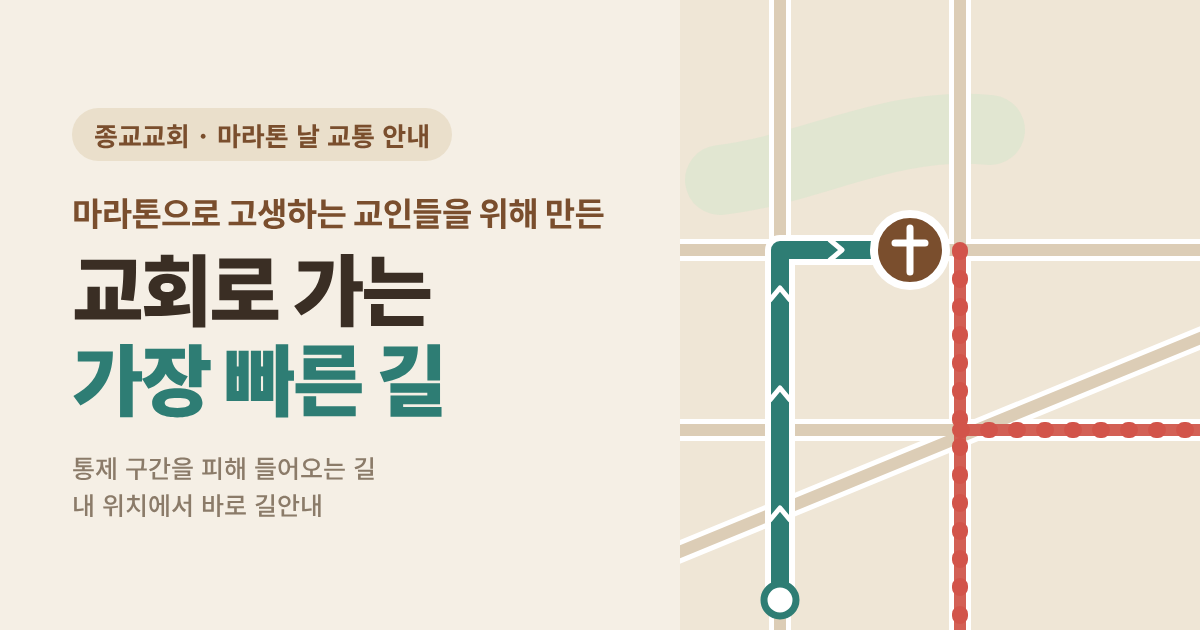
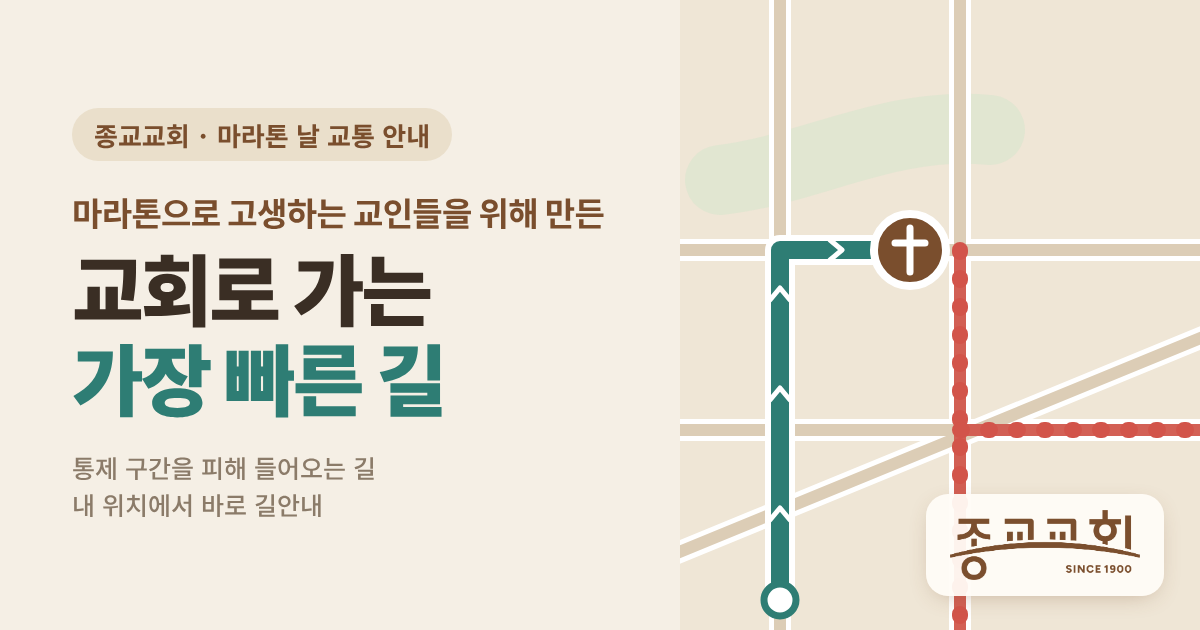
대회별 통제 구간 목록·지도 보기, 교회 로고(앱 헤더·썸네일) 추가
Claude-Session: https://claude.ai/code/session_01NMEUwdsk4j8TxaGpeGHSFo

Changed region(s): [[0.7708, 0.7841, 0.9867, 0.9651]]

diff --git a/index.html b/index.html
@@ -110,6 +110,14 @@ footer a{color:var(--brown)}
 .timeauto b{color:var(--ink)}
 .deptime{margin-top:8px;font-size:14px;color:var(--muted)}
 .deptime summary{cursor:pointer;padding:4px 2px}
+.seglist{margin-top:12px;background:rgba(255,255,255,.6);border-radius:12px;padding:10px 12px}
+.seg-h{font-size:12.5px;font-weight:800;color:var(--brown);margin-bottom:4px}
+.seg-i{display:flex;justify-content:space-between;gap:10px;font-size:13.5px;padding:4px 0;border-top:1px dashed rgba(122,78,45,.18)}
+.seg-i:first-of-type{border-top:0}
+.seg-i b{white-space:nowrap;font-variant-numeric:tabular-nums;color:#9b2f27;font-weight:700}
+.hdr{display:flex;align-items:center;justify-content:space-between;gap:12px;margin-bottom:8px}
+.hdr .logo{width:104px;height:auto;flex:none}
+@media (max-width:360px){.hdr .logo{width:78px}}
 /* admin */
 .adm h3{font-size:15px;margin:18px 0 8px}
 .seg-row{border:1.5px solid var(--line);border-radius:14px;padding:10px;margin-top:8px;background:#fff}
@@ -124,8 +132,11 @@ footer a{color:var(--brown)}
 <body>
 <div class="wrap">
   <header>
-    <span class="eyebrow">종교교회 · 주일 교통 안내</span>
-    <h1><span style="font-size:17px;font-weight:700;color:var(--brown);display:block;margin-bottom:4px">마라톤으로 고생하는 교인들을 위해 만든</span>교회로 가는 가장 빠른 길</h1>
+    <div class="hdr">
+      <span class="eyebrow">마라톤 날 주일 교통 안내</span>
+      <img class="logo" src="logo.png" alt="종교교회 SINCE 1900">
+    </div>
+        <h1><span style="font-size:17px;font-weight:700;color:var(--brown);display:block;margin-bottom:4px">마라톤으로 고생하는 교인들을 위해 만든</span>교회로 가는 가장 빠른 길</h1>
     <div class="sub">출발 위치만 고르면, 지금 시각에 맞춰 통제 구간을 피해 들어오는 길을 알려 드려요.</div>
   </header>
 
@@ -198,7 +209,7 @@ footer a{color:var(--brown)}
 
   <footer>
     예상 시간은 거리로 어림한 값이에요. 실제 길안내는 카카오맵이 실시간 교통으로 다시 계산합니다. 통제 시간은 서울시·서울경찰청 발표를 따르며, '추정' 표시는 세부 시간이 발표되지 않아 앞뒤 구간으로 어림한 것입니다.<br>
-    종교교회 · 서울 종로구 사직로8길 48 (도렴동)<br><span style="opacity:.7">버전 2026.10.31-5</span>
+    종교교회 · 서울 종로구 사직로8길 48 (도렴동)<br><span style="opacity:.7">버전 2026.10.31-7</span>
   </footer>
 </div>
 
@@ -434,7 +445,24 @@ function renderEvInfo(){
   box.innerHTML=`<b>${esc(e.name)}</b>${dd?`<span class="badge">${dd}</span>`:''}
     <div style="margin-top:4px">${fmtDate(e.date)} · ${esc(e.summary||'')}</div>
     ${isFinite(a)?`<div style="margin-top:6px">교회 주변(도심) 통제: <b>${hm(a)} ~ ${hm(b)}</b></div>`:''}
-    ${e.pending?'<div class="pending">※ 구간별 세부 통제 시간이 아직 발표되지 않았어요. 발표되면 업데이트됩니다.</div>':''}`;
+    ${e.pending?'<div class="pending">※ 구간별 세부 통제 시간이 아직 발표되지 않았어요. 발표되면 업데이트됩니다.</div>':''}
+    <div class="seglist">
+      <div class="seg-h">교회 주변 통제 구간</div>
+      ${e.segs.filter(x=>!x.outer).map(x=>`<div class="seg-i"><span>${esc(x.name)}</span><b>${x.from}~${x.to}${x.est?' (추정)':''}</b></div>`).join('')||'<div class="seg-i"><span>발표 대기</span></div>'}
+      ${e.segs.some(x=>x.outer)?`<div class="seg-h" style="margin-top:10px">교회와 먼 구간</div>${e.segs.filter(x=>x.outer).map(x=>`<div class="seg-i"><span>${esc(x.name)}</span><b>${x.from}~${x.to}${x.est?' (추정)':''}</b></div>`).join('')}`:''}
+    </div>
+    <button class="btn ghost" type="button" id="evMapBtn" style="margin-top:12px;background:#fff">🗺 통제 구간 지도로 보기</button>
+    <div id="evMapWrap" class="hidden">
+      <div class="maptabs"><button class="chip on" data-ev="ct" type="button">교회 주변</button><button class="chip" data-ev="ov" type="button">서울 전체</button></div>
+      <div class="mapbox"><svg id="evMap"></svg></div>
+      <div class="legend"><span><i style="background:var(--stop)"></i>통제 구간</span><span><i style="background:#7A4E2D;width:10px;height:10px;border-radius:50%"></i>종교교회</span></div>
+    </div>`;
+  let evView='ct';
+  const drawEv=()=>{ const svg=document.getElementById('evMap');
+    if(evView==='ov') drawOverview(svg,{ev:e,arr:0,allRed:true}); else drawCenter(svg,{ev:e,arr:0,view:'all',allRed:true}); };
+  const btn=document.getElementById('evMapBtn'), wrap=document.getElementById('evMapWrap');
+  btn.onclick=()=>{ const open=wrap.classList.toggle('hidden')===false; btn.textContent=open?'지도 닫기':'🗺 통제 구간 지도로 보기'; if(open) drawEv(); };
+  box.querySelectorAll('[data-ev]').forEach(b=>b.onclick=()=>{ evView=b.dataset.ev; box.querySelectorAll('[data-ev]').forEach(x=>x.classList.toggle('on',x===b)); drawEv(); });
 }
 
 /* ---------- UI: 출발지 ---------- */
@@ -673,7 +701,7 @@ function drawCenter(svg,o){
   // 통제
   const gC=el('g',{},svg);
   ev.segs.forEach(s=>{
-    const on=overlaps(s,arr-30,arr);
+    const on=o.allRed||overlaps(s,arr-30,arr);
     segPolysXY(s).forEach(pl=>{
       el('polyline',{points:pts2(pl),fill:'none',stroke:on?'#D2544A':'#E8B4AC','stroke-width':U*(on?4.2:2.6),'stroke-linecap':'round','stroke-linejoin':'round','stroke-dasharray':on?'':`${U*5} ${U*4}`,opacity:on?1:.9},gC);
     });
@@ -749,7 +777,7 @@ function drawOverview(svg,o){
   const bb=bboxNodes();
   el('rect',{x:bb[0],y:bb[1],width:bb[2]-bb[0],height:bb[3]-bb[1],fill:'none',stroke:'#8B7B69','stroke-width':U*1,'stroke-dasharray':`${U*3} ${U*2}`,rx:U*3},svg);
   // 통제
-  ev.segs.forEach(s=>{ const on=overlaps(s,arr-90,arr);
+  ev.segs.forEach(s=>{ const on=o.allRed||overlaps(s,arr-90,arr);
     segPolysXY(s).forEach(pl=>el('polyline',{points:pts2(pl),fill:'none',stroke:on?'#D2544A':'#E8B4AC','stroke-width':U*(on?3.4:2.4),'stroke-linecap':'round','stroke-linejoin':'round'},svg)); });
   // 경로
   if(r&&o.start){
